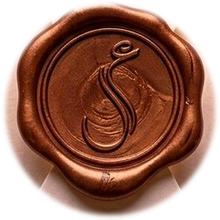
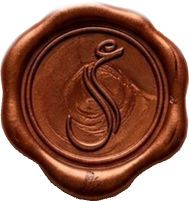
fix seal and envelope

diff --git a/index.html b/index.html
@@ -108,7 +108,7 @@
   #opener .seal{
     position:absolute;z-index:5;
     top:51.5%;left:50%;
-    width:min(30vw,132px);aspect-ratio:1;
+    width:min(25vw,132px);aspect-ratio:1;
     transform:translate(-50%,-50%);
     border-radius:50%;cursor:pointer;
     transition:transform .55s ease,opacity .55s ease;
@@ -277,7 +277,7 @@
   #muteBtn.pulse{animation:sealPulse 2.2s ease-in-out infinite}
   @keyframes sealPulse{
     0%,100%{box-shadow:0 0 0 0 rgba(176,141,62,0)}
-    50%{box-shadow:0 0 0 9px rgba(176,141,62,0.3)}
+    50%{box-shadow:0 0 0 15px rgba(176,141,62,0.3)}
   }
 
   @media (prefers-reduced-motion: reduce){